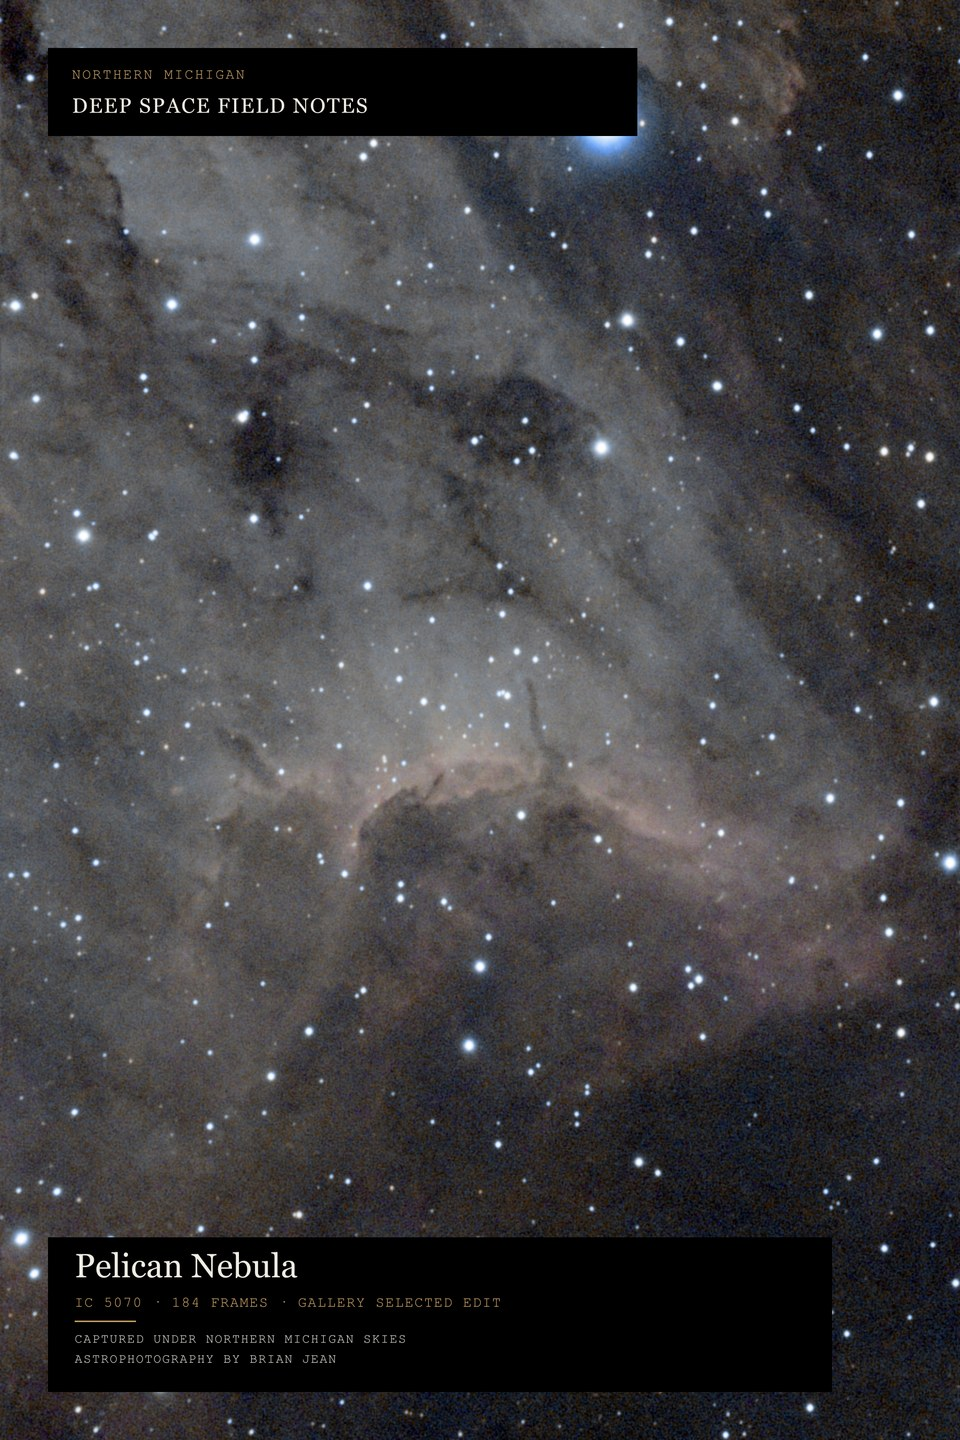
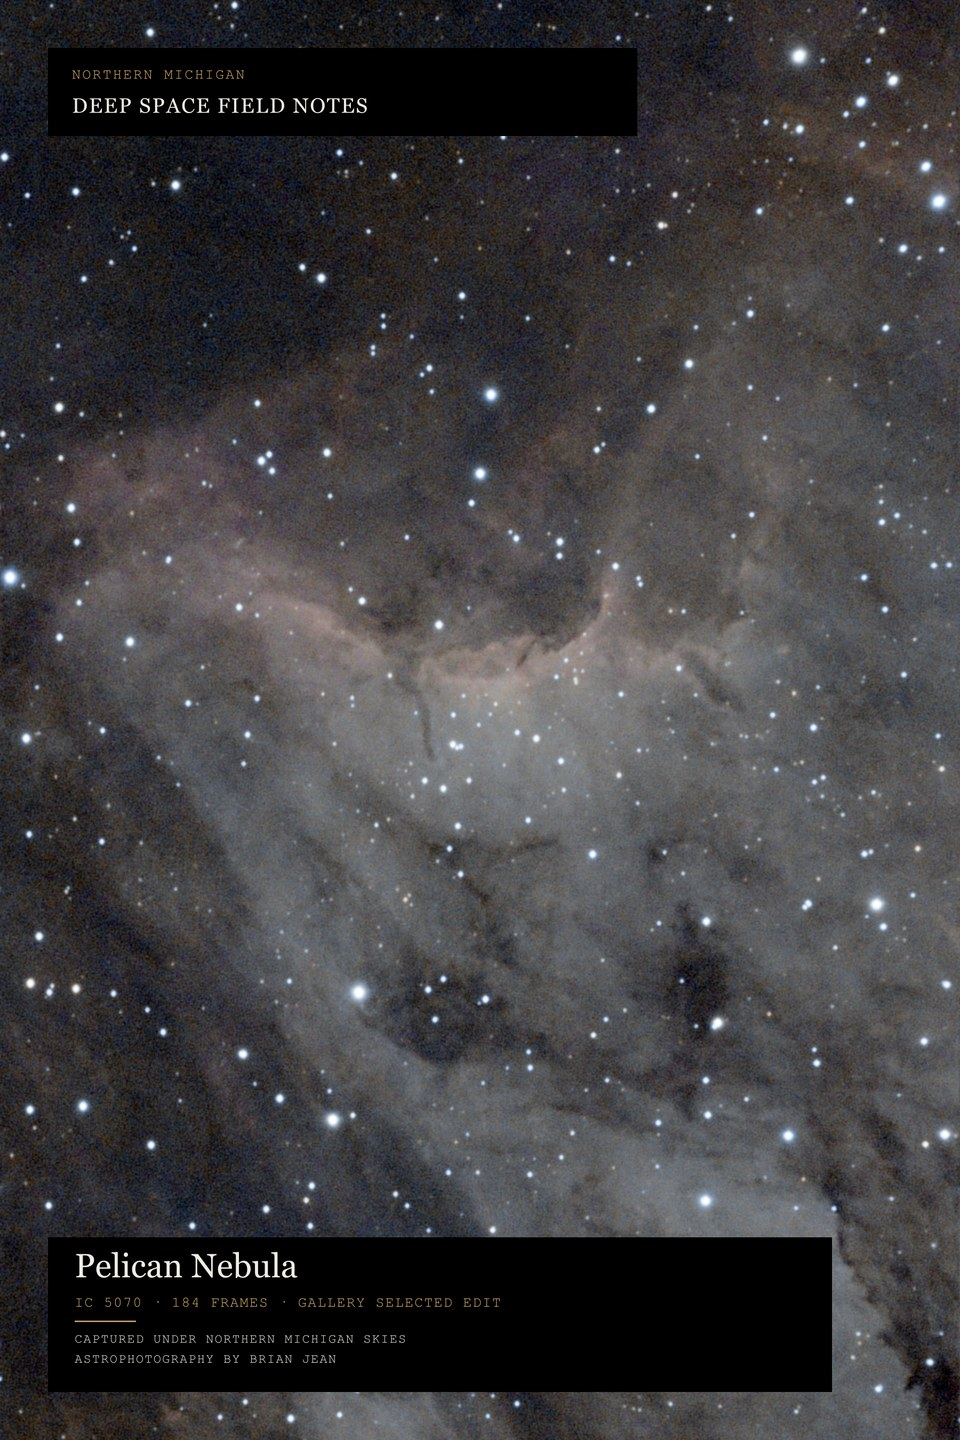
Update Site source

diff --git a/app/page.tsx b/app/page.tsx
@@ -3,6 +3,7 @@
 import { useCallback, useEffect, useMemo, useRef, useState, type CSSProperties } from "react";
 import { comparisons, type CaptureComparison } from "./comparisons";
 import { printProductForCapture } from "./print-catalog";
+import { captureRotation } from "./capture-orientation.mjs";
 
 const imageFiles = [
   "Stacked_101_IC 443_10.0s_LP_20260303-213610_cleaned.jpg",
@@ -241,6 +242,7 @@ export default function Home() {
   const comparison = capture.comparison;
   const isNightSkyAI = comparison?.curatedDefault === "nightskyai";
   const activeImage = curatedImage(capture);
+  const activeRotation = captureRotation(capture.file, isNightSkyAI ? "nightskyai" : "seestar");
   const activeFrames = comparison && isNightSkyAI ? comparison.nightskyaiFrames : capture.frames;
   const activeProvenance = comparison && isNightSkyAI
     ? "NightSkyAI · selected full-field stack"
@@ -403,7 +405,7 @@ export default function Home() {
 
           {hasStarted && (
             <figure className="capture-frame" key={`${capture.file}-${phase}`}>
-              <img src={publicImageUrl(activeImage)} alt={`${capture.title}, ${isNightSkyAI ? "NightSkyAI restack" : "gallery edit"}`} />
+              <img src={publicImageUrl(activeImage)} style={activeRotation ? { transform: `rotate(${activeRotation}deg)` } : undefined} alt={`${capture.title}, ${isNightSkyAI ? "NightSkyAI restack" : "gallery edit"}`} />
               <span className="photo-watermark" aria-hidden="true"><b>Deep Space Field Notes</b><small>© Brian Jean</small></span>
               <figcaption>
                 <span className="catalog-line"><i />{capture.object}</span>

diff --git a/docs/PRINT_FULFILLMENT.md b/docs/PRINT_FULFILLMENT.md
@@ -18,6 +18,14 @@ This uses the same capture-file-specific owner-selected source shown in the gall
 
 Web previews go to `public/prints/`; 3600 × 5400 concept JPGs and a provenance manifest go to ignored `print_products/masters/edge-to-edge-v1/`. A collection review sheet is saved alongside the concepts. Original photos, comparison provenance and legacy masters remain unchanged. `npm run prints:prepare-legacy` retains the previous four-print framed layout.
 
+### Correct an existing photograph's orientation
+
+`app/capture-orientation.json` binds presentation rotation to the exact capture filename and selected treatment. The Pelican gallery edit uses 180°; its alternative NightSkyAI source is not rotated. The gallery rotates only its photograph, leaving captions and watermark upright. The current poster generator uses the same setting before adding its information panels. Original files and registered comparison references stay unchanged; the comparison viewer continues to show the original alignment reference.
+
+Regenerate just the affected poster with `npm run prints:prepare -- --only pelican-nebula-ic-5070`. Other catalog entries, approvals, previews, and the full collection review remain unchanged. A targeted provenance manifest and review sheet are written alongside the new master. The preview URL is fingerprinted to avoid stale browser caching. Regeneration preserves Fourthwall product and variant identifiers but clears approvals and the purchase link when the artwork changes.
+
+**Pelican correction pending supplier verification:** The corrected local artwork must replace the design on the existing Fourthwall product `pelican-nebula-northern-michigan`; do not create a second listing or claim that local regeneration changed Fourthwall. Reconfirm the shop and inspect its complete new render before restoring its artwork-bound approval and exact purchase URL. `productPublished: false` on regenerated artwork indicates that this artwork has not been verified as published; it does not mean that the existing supplier listing was hidden. That existing listing remains unchanged until the supplier update succeeds. Publish the matching gallery correction only after supplier verification, or explicitly record any partial release.
+
 **Current gallery exports are not production-approved originals.** Their native resolution is about 31–90 pixels per inch at a 12-inch width. A 300 DPI tag on an enlarged file does not add detail. Suitable higher-resolution exports remain preferable. On September 30, Brian explicitly authorized public sales for the complete 33-print collection before the Orion sample arrives for the October 1 demo; this authorization does not establish that physical quality has passed inspection. Brian ordered a physical Orion sample of the current edge-to-edge artwork to judge its real printed quality. Its quality review remains pending. Replacing a source or changing the rendered poster clears that product's approvals and purchase URL on regeneration.
 
 ## Fourthwall setup and activation

diff --git a/README.md b/README.md
@@ -185,3 +185,7 @@ aligned manifest as if its derivative were fresh source material.
 ## Photography
 
 Astrophotography © Brian Jean. The images are shared here as part of Deep Space Field Notes; please ask before reusing or redistributing the original image assets.
+
+## Capture orientation corrections
+
+The gallery and current poster generator share capture-specific presentation rotations in `app/capture-orientation.json`. Pelican's selected gallery edit is rotated 180°; its original pixels and comparison alignment references remain unchanged. The poster rotates the photograph before adding upright text. See `docs/PRINT_FULFILLMENT.md` for targeted regeneration and the supplier replacement gate.
